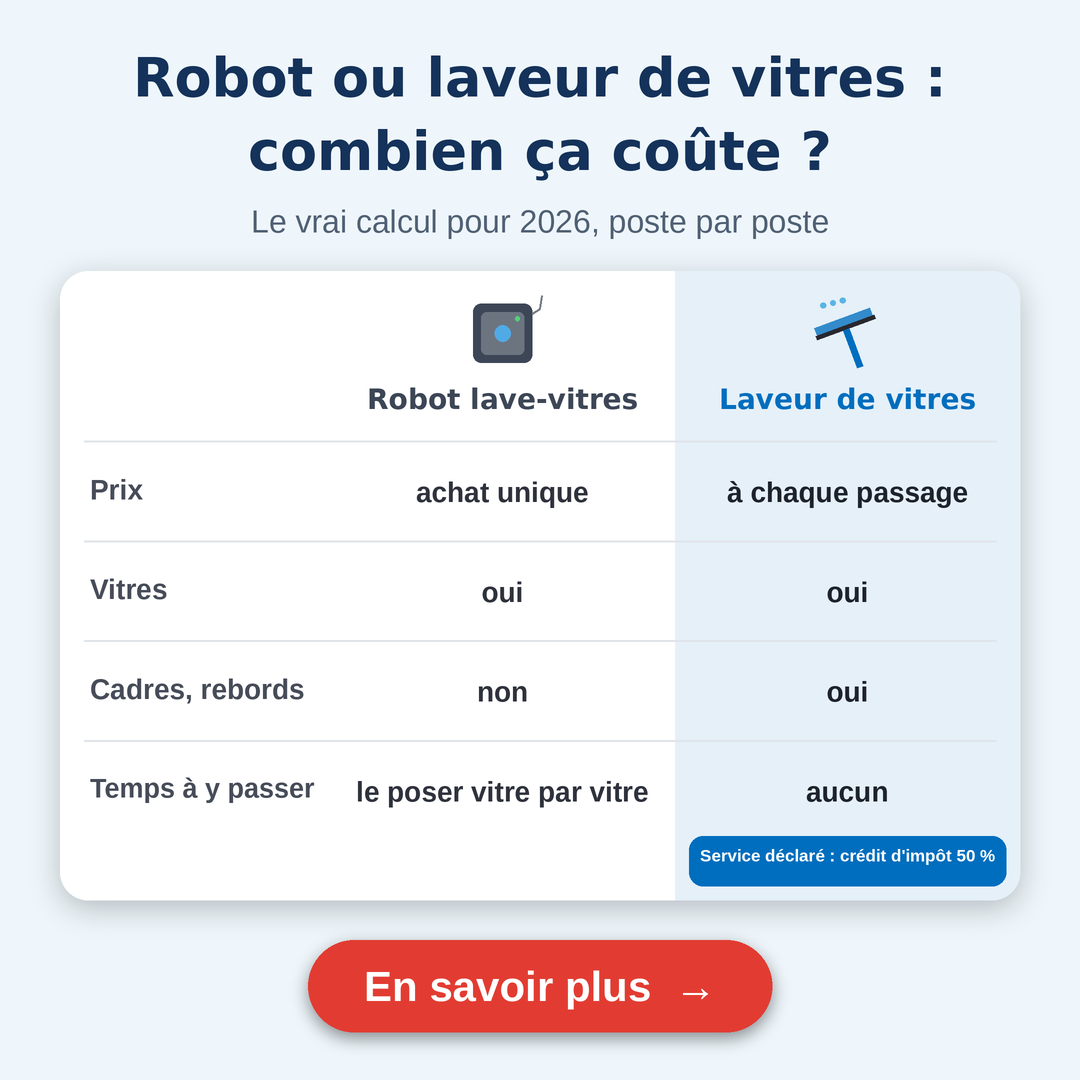
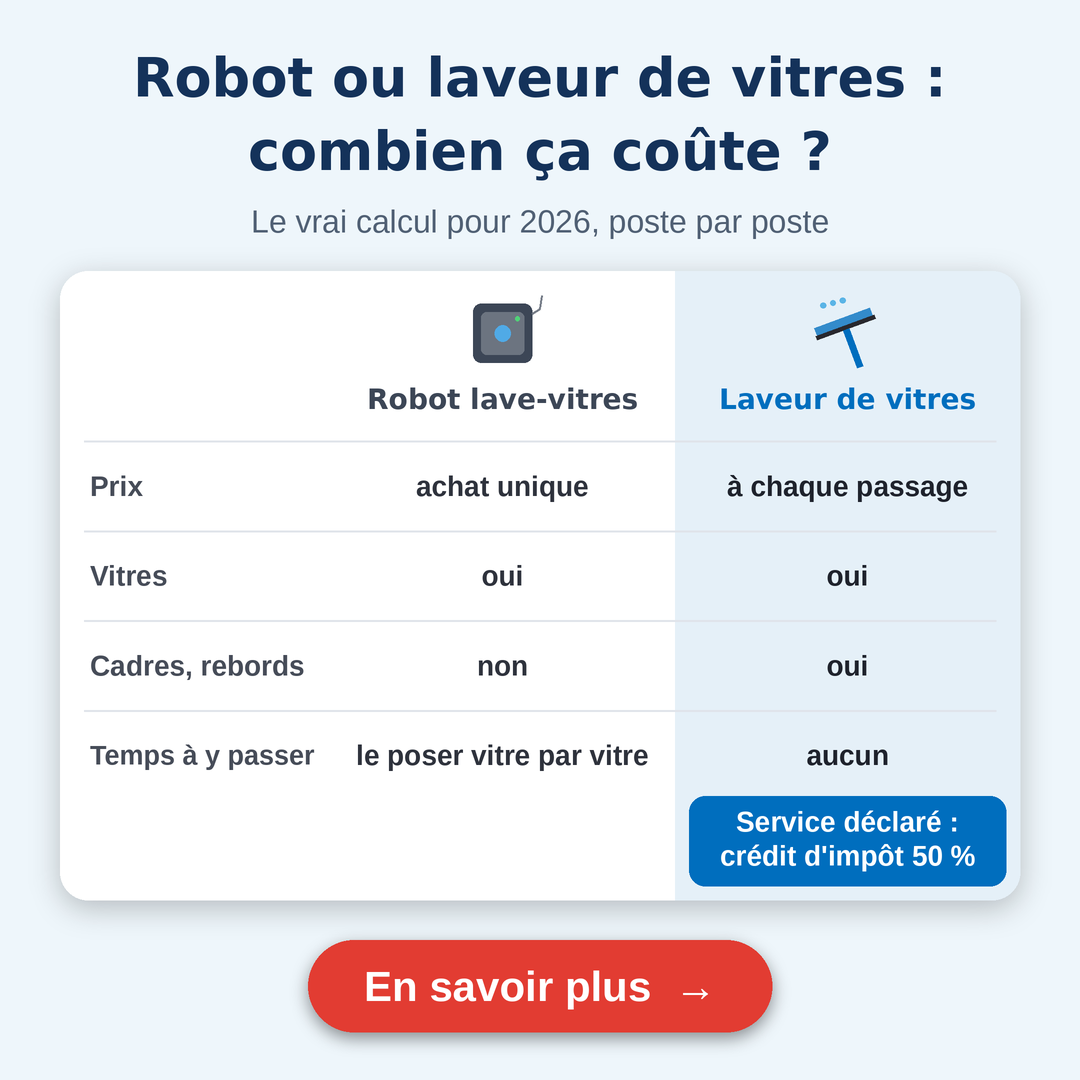
creatives: пакеты волны 1 — UK 60+, кредиты по профессиям DE/FR/PL, FR робот/клининг (по 4 статики, финал)
Claude-Session: https://claude.ai/code/session_01C37NqGH9zFdyb8ik1XzQDR

diff --git a/creatives/ready/2026-09-30_packs/src/p60_packs.py b/creatives/ready/2026-09-30_packs/src/p60_packs.py
@@ -139,9 +139,9 @@ PACKS[5] = dict(
            diag=40, cols=[("ANGESTELLT", "briefcase", (96, 108, 124), ["Kündigung möglich", "Einkommen kann wegfallen", "Zinsen: Standard"]),
                           ("VERBEAMTET", "padlock", PET, ["Kündigung kaum möglich", "Feste Besoldung", "Zinsen: ?"])],
            pal=dict(bg=(248, 246, 242), ink=DARK5, sub=(90, 96, 106), btn=ORG5, vs_bg=ORG5, vs_ink=WH), note="диагональный сплит: angestellt / verbeamtet"),
-    d=dict(style="bars", scene="desk_top", y=190, veil=(70, 160, 1010, 700), veil_alpha=238,
+    d=dict(style="bars", scene="desk_top", y=190, veil=(70, 160, 1010, 630), veil_alpha=238,
            bars=[("BEAMTENKREDIT 2026:", WH, ORG5), ("WAS BANKEN BEAMTEN", WH, DARK5), ("VERSCHWEIGEN?", WH, DARK5)],
-           bar_size=90, cond=0.8, btn_y=612, btn_size=48, max_w=900,
+           bar_size=90, cond=0.8, btn_y=548, btn_size=48, max_w=900,
            pal=dict(btn=(28, 88, 196)),
            note="формула рабочих кредитных крео владельца (плашки + «что банки скрывают»); стол сверху: Bezügemitteilung без герба, калькулятор «2026», ручка, папка, кофе"),
 )
@@ -197,7 +197,7 @@ PACKS[7] = dict(
            note="две карточки друг над другом"),
     d=dict(style="left", scene="uniform_chair", y=60, x=70,
            bars=[("KREDYT DLA", WH, RED7), ("MUNDUROWYCH 2026:", WH, RED7), ("CZEGO BANKI", DARK7, None), ("NIE MÓWIĄ?", DARK7, None)],
-           bar_size=88, cond=0.8, btn_y=540, btn_size=44, max_w=940,
+           bar_size=100, cond=0.8, btn_y=640, btn_size=42, max_w=940,
            pal=dict(btn=(28, 88, 196)),
            note="формула рабочих кредитных крео владельца (плашки + «чего банки не говорят»); стул с курткой-камуфляжем, кепкой и ботинками без знаков"),
 )
@@ -209,7 +209,7 @@ PACKS[8] = dict(
     pal=dict(bg=(238, 246, 251), ink=NAVY8, sub=(80, 96, 116), acc=(0, 120, 200), btn=RED8, tile=WH, tile_ink=NAVY8,
              icon=NAVY8, iconbg=(226, 240, 250), hl=YEL8, sticker=YEL8),
     a=dict(layout="row2", title="Robot lave-vitres ou laveur de vitres ?", sub="Lequel revient moins cher en 2026 ?", size=58,
-           hero=S.hero_robot, hero_h=380, tiles=[("robot", "Robot"), ("squeegee", "Professionnel")],
+           hero=S.hero_robot, hero_h=380, hero_label="Robot / Professionnel", tiles=[("robot", "Robot"), ("squeegee", "Professionnel")],
            foot="Crédit d'impôt 50 % : le vrai calcul", note="сетка из 2 вариантов, как в брифе №1"),
     b=dict(layout="card2x2", title="Laveur de vitres déclaré :", title2="le calcul qui surprend", size=58,
            tag="QUIZ", step="Question 1 sur 3", prog=0.33,
@@ -221,7 +221,7 @@ PACKS[8] = dict(
            cols=[("Robot lave-vitres", "robot", (60, 70, 86)), ("Laveur de vitres", "squeegee", (0, 110, 190))],
            rows=[("Prix", "achat unique", "à chaque passage"), ("Vitres", "oui", "oui"), ("Cadres, rebords", "non", "oui"),
                  ("Temps à y passer", "le poser vitre par vitre", "aucun")],
-           banner="Service déclaré : crédit d'impôt 50 %", pal=dict(acc=(0, 110, 190)),
+           banner="Service déclaré :\ncrédit d'impôt 50 %", pal=dict(acc=(0, 110, 190)),
            note="таблица робот / мойщик; про налоговый кредит — только у услуги (у робота не утверждаем)"),
     d=dict(style="top", scene="bay_window", title="Robot lave-vitres ou laveur de vitres ?", sub="Lequel revient moins cher en 2026 ?",
            size=62, sticker="Crédit d'impôt 50 %", sticker_xy=(900, 470, 104), btn_y=1000,
@@ -233,11 +233,11 @@ PACKS[8] = dict(
 def texts(t, cta):
     """Весь текст на картинке — для creatives.json."""
     out = []
-    for k in ("kicker", "title", "title2", "sub"):
+    for k in ("kicker", "title", "title2", "sub", "hero_label"):
         if t.get(k):
             out.append(t[k])
-    if t.get("bars"):
-        out.append(" ".join(b[0] if not isinstance(b, str) else b for b in t["bars"]))
+    if t.get("bars") and len(t["bars"][0]) == 3:
+        out.append(" ".join(b[0] for b in t["bars"]))
     for k in ("tag", "step", "q"):
         if t.get(k):
             out.append(t[k])
@@ -258,14 +258,12 @@ def texts(t, cta):
         out.append(" · ".join(f"{r[0]}: {r[1]} / {r[2]}" for r in t["rows"]))
     if t.get("bill"):
         out.append(t["bill"] + " " + t.get("bill_r", ""))
-    if t.get("bars") is None and False:
-        pass
     if isinstance(t.get("bars"), list) and t.get("bars") and len(t["bars"][0]) == 4:
         out.append(" · ".join(f"{b[0]} {b[2]}" for b in t["bars"]))
     for k in ("banner", "sticker", "foot"):
         if t.get(k):
             out.append(t[k])
-    return " / ".join(out)
+    return " / ".join(out).replace("\n", " ").replace("\u00ad", "")
 
 
 def build(n, letters="abcd"):

diff --git a/creatives/ready/2026-09-30_packs/src/p60_templates.py b/creatives/ready/2026-09-30_packs/src/p60_templates.py
@@ -305,11 +305,11 @@ def compare(P, t):
             yy = band + 330
             for r_ in rows:
                 x0 = cx - 220
-                c.circle(x0 + 18, yy + 21, 18, fill=WH, alpha=235)
                 if r_.endswith("?"):
+                    c.circle(x0 + 18, yy + 21, 18, fill=WH, alpha=235)
                     c.text((x0 + 18, yy + 21), "?", "db", 24, col, anchor="mm")
                 else:
-                    c.check(x0 + 8, yy + 12, 20, col, 4)
+                    c.circle(x0 + 18, yy + 21, 10, fill=WH, alpha=235)
                 c.block(r_, "sb", 33, yy, 400, WH, align="left", x=x0 + 50, max_lines=2, gap=1.05)
                 nl = len(c.wrap(r_, c.font("sb", 33), 400))
                 yy += 42 * nl + 44
@@ -332,11 +332,11 @@ def compare(P, t):
             icon(c, ic, cx, box[1] + 62, 82, col)
             c.block(head, "db", 28, box[1] + 112, x1 - x0 - 24, col, cx=cx, max_lines=2, gap=1.0)
         rows = t["rows"]
-        rh = (box[3] - box[1] - hh - (60 if t.get("banner") else 10)) / len(rows)
+        rh = (box[3] - box[1] - hh - (100 if t.get("banner") else 10)) / len(rows)
         ry = box[1] + hh
         for k, (lab, a, b) in enumerate(rows):
             c.line([(box[0] + 24, ry), (box[2] - 24, ry)], (224, 228, 234), 2)
-            c.block(lab, "sb", 28, ry + rh / 2 - 17, colx[1] - colx[0] - 40, (70, 76, 88), align="left", x=colx[0] + 30, max_lines=1)
+            c.text((colx[0] + 30, ry + rh / 2), lab, "sb", c.fit(lab, "sb", colx[1] - colx[0] - 40, 1, 28), (70, 76, 88), anchor="lm")
             for txt, x0, x1, col in ((a, colx[1], colx[2], (46, 50, 60)), (b, colx[2], colx[3], (30, 34, 44))):
                 if txt.strip() == "?":
                     c.circle((x0 + x1) / 2, ry + rh / 2, 30, fill=p["acc"])
@@ -345,11 +345,14 @@ def compare(P, t):
                 nl = len(c.wrap(txt, c.font("sb", 28), x1 - x0 - 36))
                 sz = 28 if nl <= 2 else 24
                 nl = min(2, len(c.wrap(txt, c.font("sb", sz), x1 - x0 - 36)))
-                c.block(txt, "sb", sz, ry + rh / 2 - nl * c.lh("sb", sz, 1.04) / 2 + 2, x1 - x0 - 36, col, cx=(x0 + x1) / 2, max_lines=2, gap=1.04)
+                if nl == 1:
+                    c.text(((x0 + x1) / 2, ry + rh / 2), txt, "sb", sz, col, anchor="mm")
+                else:
+                    c.block(txt, "sb", sz, ry + rh / 2 - nl * c.lh("sb", sz, 1.04) / 2 + 2, x1 - x0 - 36, col, cx=(x0 + x1) / 2, max_lines=2, gap=1.04)
             ry += rh
         if t.get("banner"):
-            c.rect((colx[2] + 14, box[3] - 64, colx[3] - 14, box[3] - 14), fill=p["acc"], r=14)
-            c.block(t["banner"], "sb", 24, box[3] - 54, colx[3] - colx[2] - 50, WH, cx=(colx[2] + colx[3]) / 2, max_lines=1)
+            c.rect((colx[2] + 14, box[3] - 104, colx[3] - 14, box[3] - 14), fill=p["acc"], r=16)
+            c.block(t["banner"], "sb", 28, box[3] - 94, colx[3] - colx[2] - 50, WH, cx=(colx[2] + colx[3]) / 2, max_lines=2, gap=1.08)
         if t.get("foot"):
             c.block(t["foot"], "sb", 36, 884, 980, p["ink"], max_lines=1, highlight=p.get("hl"), hl_pad=8)
         c.button(cta, W / 2, 986, size=42, fill=p["btn"])

diff --git a/creatives/ready/2026-09-30_packs/src/p60_scenes.py b/creatives/ready/2026-09-30_packs/src/p60_scenes.py
@@ -342,6 +342,9 @@ def uniform_chair(c, floor_y=880):
     c.vgrad((0, 0, W, floor_y), (236, 230, 214), (222, 214, 194))
     wood(c, (0, floor_y, W, W), (170, 128, 88), (150, 110, 74), lines=4, seed=9)
     c.rect((0, floor_y - 30, W, floor_y), fill=(250, 246, 236))
+    # тени на полу
+    c.ellipse((620, 1030, 1070, 1070), fill=(0, 0, 0), alpha=40)
+    c.ellipse((380, 1010, 640, 1050), fill=(0, 0, 0), alpha=45)
     # стул
     CH = (126, 84, 52)
     c.rect((700, 360, 730, 1050), fill=CH, r=8)
@@ -365,7 +368,7 @@ def uniform_chair(c, floor_y=880):
     c.poly([(772, 544), (700, 556), (704, 570), (790, 562)], mix(CAP, (0, 0, 0), 0.3))
     c.line([(850, 466), (852, 530)], mix(CAP, (0, 0, 0), 0.2), 3)
     # ботинки на полу
-    I.boots(c, 470, 950, 230, (46, 44, 40))
+    I.boots(c, 505, 925, 280, (46, 44, 40))
 
 
 # ---------- 8. Робот-мойщик на большом окне в гостиной (без логотипа)
@@ -469,14 +472,32 @@ def hero_camo(c, box, label="Kredyt dla służb mundurowych"):
     pts = [(x0, y0), (x1, y0), (x1, y1), (x0, y1)]
     camo(c, pts, (104, 112, 72), [(70, 80, 50), (140, 130, 90), (60, 56, 40), (120, 124, 84)], seed=21, n=90, rmin=20, rmax=60, rr=r)
     cx, cy = (x0 + x1) / 2, (y0 + y1) / 2
-    c.rect((cx - 340, cy - 60, cx + 340, cy + 60), fill=(250, 246, 234), r=30, alpha=240)
-    c.text((cx, cy), label, "db", 42, (60, 66, 40), anchor="mm")
+    sz = c.fit(label, "db", 820, 1, 44)
+    tw_ = c.tw(label, c.font("db", sz))[0]
+    c.rect((cx - tw_ / 2 - 40, cy - 56, cx + tw_ / 2 + 40, cy + 56), fill=(250, 246, 234), r=30, alpha=240)
+    c.text((cx, cy), label, "db", sz, (60, 66, 40), anchor="mm")
+
+
+def clip_draw(c, box, r, fn, bg=(255, 255, 255)):
+    """Рисует fn(canvas) на отдельном холсте и вставляет область box со скруглёнными углами."""
+    from p60_lib import C as _C
+    t = _C(bg, K=c.K)
+    fn(t)
+    x0, y0, x1, y1 = box
+    region = t.im.crop(c.sb(box))
+    mask = Image.new("L", region.size, 0)
+    ImageDraw.Draw(mask).rounded_rectangle((0, 0, region.width - 1, region.height - 1), c.s(r), fill=255)
+    c.shadow(box, r=r, alpha=50, blur=12, off=(0, 6))
+    c.im.paste(region, (c.s(x0), c.s(y0)), mask)
 
 
 def hero_robot(c, box):
+    clip_draw(c, box, 28, lambda t: _hero_robot(t, box))
+
+
+def _hero_robot(c, box):
     """Робот против мойщика: два стекла, слева робот, справа склиз с каплями."""
     x0, y0, x1, y1 = box
-    c.shadow(box, r=28, alpha=50, blur=12, off=(0, 6))
     c.rect(box, fill=(255, 255, 255), r=28)
     ix0, iy0, ix1, iy1 = x0 + 18, y0 + 18, x1 - 18, y1 - 18
     c.vgrad((ix0, iy0, ix1, iy1), (150, 204, 238), (222, 240, 250))
